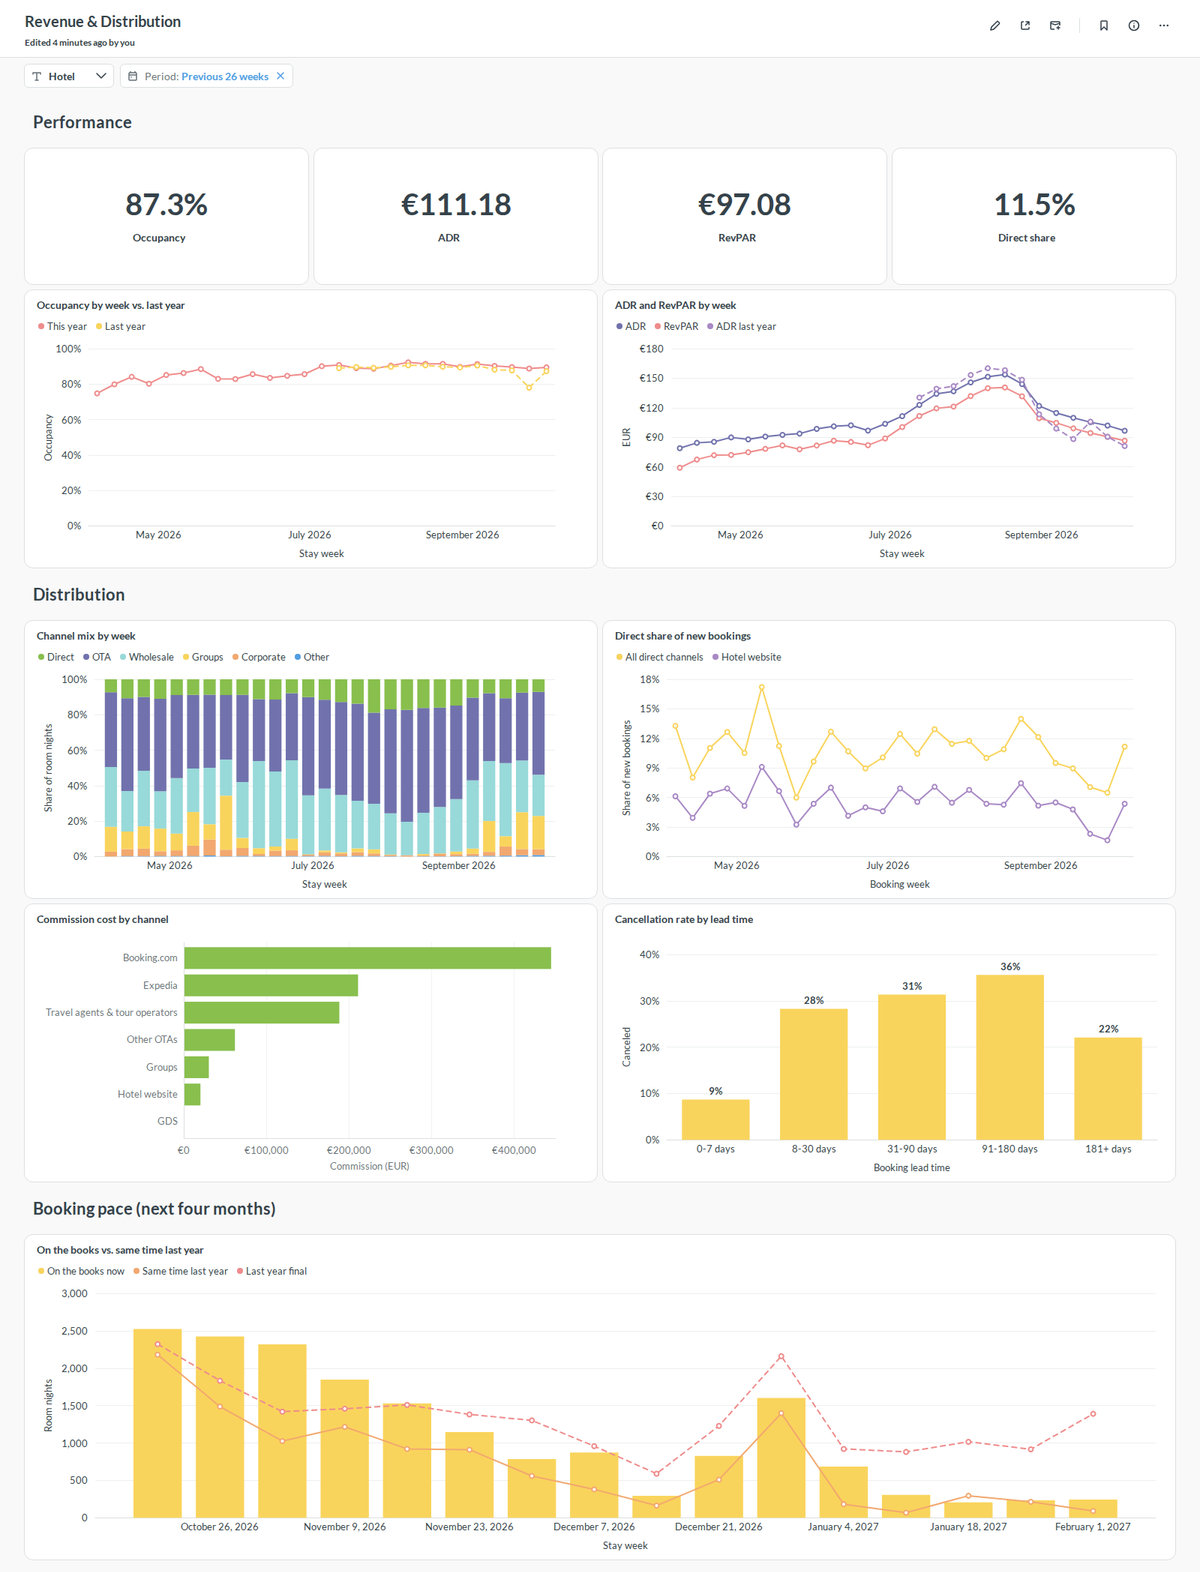
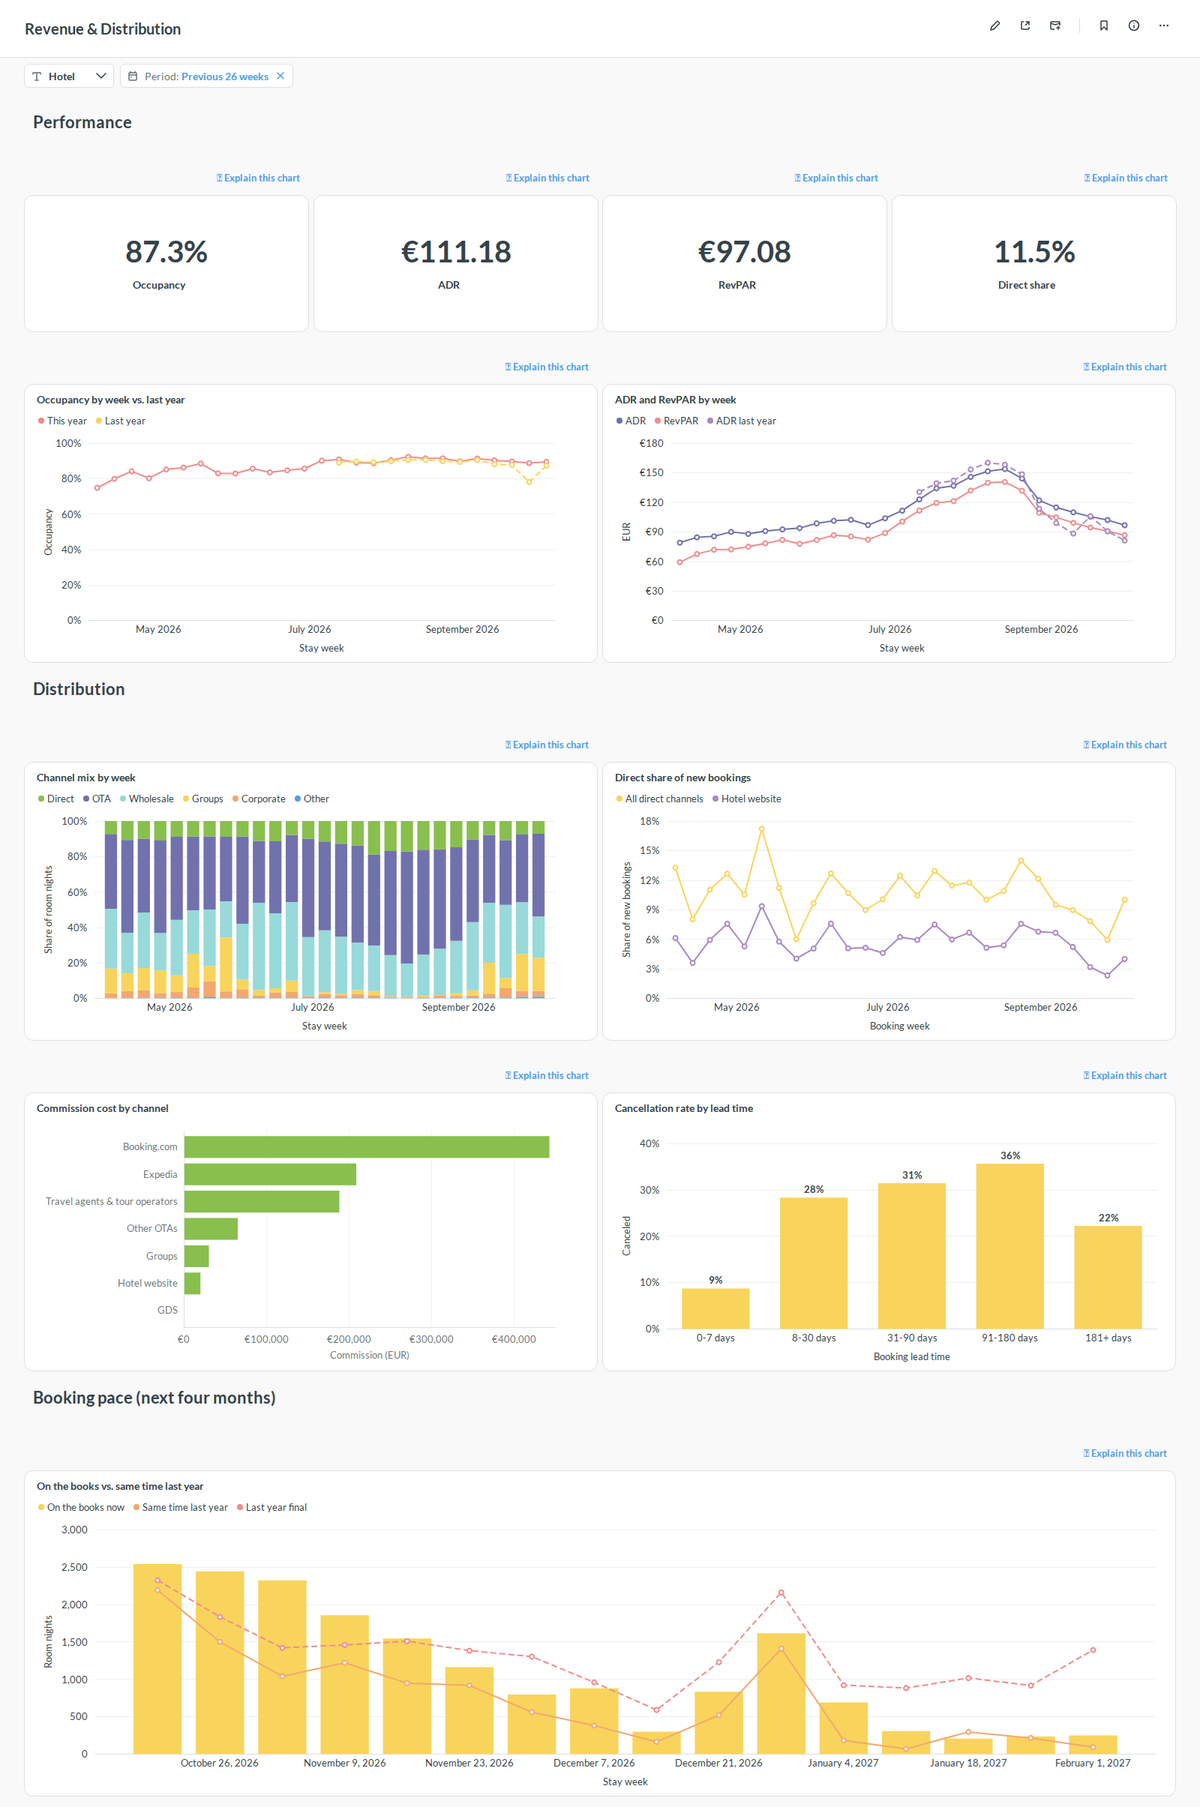
docs: explain feature in the README, evaluation report and screenshots

diff --git a/README.md b/README.md
@@ -42,7 +42,7 @@ lets every chart **explain itself** in plain language.
 | Website tracking | Demo booking site with a consent-first JavaScript tracker, an event collector that validates against a versioned contract and writes a gzip JSONL landing zone, exactly-once file ingestion, clock-skew correction, bot and duplicate filtering, per-visitor incremental sessionisation | ✅ |
 | Web analytics | Closed booking funnel by device and channel, payment errors, first- vs. last-touch attribution, and tracking coverage reconciled against the PMS | ✅ |
 | Operations & reviews | Consumables forecasting and purchase suggestions; review ingestion with topic and sentiment tagging | 🚧 |
-| **Explain this chart** | A button next to every chart: computes facts (deltas, anomalies, drivers), turns them into a narrative with an LLM and verifies every number against the facts | 🚧 |
+| **Explain this chart** | A link above every chart opens an explanation of exactly what the chart shows under the current filters: a deterministic facts engine (changes, trends, anomaly episodes, level shifts, divergence between series, share shifts, gaps to last year and to targets), an LLM narrative with hypotheses and next steps, and an automatic check of every number against the facts. Works without an LLM, too (facts-only mode). | ✅ |
 
 ## Dashboards
 
@@ -53,6 +53,17 @@ lets every chart **explain itself** in plain language.
 ![Website & Booking Funnel dashboard](docs/images/website-dashboard.png)
 
 *Website & Booking Funnel: the same outage seen from the website - mobile payment success collapses and `gateway_timeout` errors spike. Tracking coverage fell below the alert threshold after a cookie-banner redesign (a second injected anomaly), and first- vs. last-touch attribution shows how last-click reporting undervalues metasearch.*
+
+### ✨ Explain this chart
+
+<img src="docs/images/explain-page.png" alt="Explanation of the payment success chart" width="720">
+
+*One click on "Explain this chart" above the payment chart: the facts engine finds the drop and that it only affects mobile; the model turns that into a headline, hypotheses to verify and next steps. All numbers are checked against the chart's data, and the facts used are listed underneath.*
+
+Evaluated against the injected anomalies (`make evaluate`, [report](docs/insight-evaluation.md)):
+the facts engine and the narrative both name the affected series and time window in **4 of 4**
+anomaly charts, **all** narratives pass the number check, and the control charts raise **no**
+false alarms.
 
 ## Architecture
 
@@ -80,7 +91,8 @@ flowchart LR
     end
 
     MB["Metabase<br/>dashboards as code"]
-    EXP["Insight service<br/>explain this chart"]
+    EXP["Insight service<br/>facts engine + number check"]
+    LLM["LLM<br/>OpenAI-compatible API"]
 
     SIM -. simulated activity .-> PMS
     SIM -. simulated visits .-> COL
@@ -95,12 +107,14 @@ flowchart LR
     WING --> AUDIT
     MARTS --> MB
     CORE --> MB
-    MB -- "✨ Explain" --> EXP
+    MB -- "✨ Explain (chart + filters)" --> EXP
+    EXP -- "same query via API" --> MB
+    EXP -- "facts only" --> LLM
 ```
 
 All services run with Docker Compose: PostgreSQL 17 (warehouse, source system and application
-databases with least-privilege roles), Airflow 3.3 (LocalExecutor), Metabase 0.64, and two small
-FastAPI services - the demo hotel website and the event collector.
+databases with least-privilege roles), Airflow 3.3 (LocalExecutor), Metabase 0.64, and three small
+FastAPI services - the demo hotel website, the event collector and the insight service.
 
 ## Data pipeline workflow
 
@@ -132,6 +146,26 @@ FastAPI services - the demo hotel website and the event collector.
    inactivity rule), then the web marts join sessions with PMS reservations for attribution and
    tracking coverage.
 
+**Explaining a chart** happens on demand:
+
+1. **Link** — every chart has a text card above it whose link carries the dashboard's current
+   filter values (Metabase fills them in display form, e.g. "Previous 12 weeks"; the service
+   parses them back to raw filter values).
+2. **Query** — the insight service runs the chart's own query through the Metabase API with a
+   non-admin service account, so the explanation sees exactly what the viewer sees.
+3. **Facts** — a deterministic engine computes the facts, in the chart's own number formats.
+   Anomalies are deviations from the local level measured in units of the series' week-to-week
+   noise; level shifts must explain the data better than a trend; targets and last-year gaps
+   are compared in code, never by the model.
+4. **Narrative** — an OpenAI-compatible model (default: `deepseek-v4-pro`) writes headline,
+   observations with fact references, hypotheses with confidence and next steps, using the chart's
+   intent and a KPI glossary as context. Only aggregated chart data is sent.
+5. **Verify** — every number in the answer must match a fact at the precision it is written
+   with (%, pp, €, thousands, German and Chinese formats); otherwise the model gets one retry
+   with feedback, after which unverified numbers are flagged on the page.
+6. **Cache and learn** — answers are cached per chart, filters, data version, model and
+   language; requests and 👍/👎 feedback are stored in schema `insight`.
+
 | DAG | Schedule | Purpose |
 |---|---|---|
 | `sim_pms_source` | hourly | Advance the simulated PMS to the current time |
@@ -150,6 +184,7 @@ FastAPI services - the demo hotel website and the event collector.
 | `core` | `dim_date`, `dim_hotel`, `dim_room_type`, `dim_channel`, `fct_reservation`, `fct_room_night`, `fct_web_event`, `fct_web_session` | dimensions upserted; facts incremental per changed reservation / visitor |
 | `marts` | `hotel_daily_kpi`, `channel_daily`, `channel_bookings_daily`, `booking_pace`, `web_funnel_daily`, `web_payment_errors_daily`, `web_attribution`, `tracking_coverage_daily` | full rebuild in one transaction |
 | `audit` | schema migrations, load log, loaded-file manifest, data-quality results | append-only |
+| `insight` | explanation cache, requests, feedback | written by the insight service only |
 
 KPI definitions follow hotel industry conventions: **Occupancy** = rooms sold / rooms
 available, **ADR** = room revenue / rooms sold, **RevPAR** = room revenue / rooms available,
@@ -165,12 +200,23 @@ make env   # create .env with freshly generated secrets
 make up    # build and start everything; first start seeds data and provisions dashboards
 ```
 
+To get AI-written explanations, put an OpenAI-compatible endpoint into `.env` (OpenAI,
+DeepSeek, OpenCode, or a local Ollama/vLLM server) and run `make up` again; without a key the
+explanations are generated from the facts alone:
+
+```bash
+LLM_BASE_URL=https://opencode.ai/zen/v1
+LLM_API_KEY=...
+LLM_MODEL=deepseek-v4-pro
+```
+
 | Service | URL | Credentials |
 |---|---|---|
 | Metabase | http://localhost:3001 | `MB_ADMIN_EMAIL` / `MB_ADMIN_PASSWORD` from `.env` |
 | Airflow | http://localhost:8081 | none (local demo mode) |
 | Demo hotel website | http://localhost:8030 | - |
 | Event collector | http://localhost:8010 | - |
+| Insight service | http://localhost:8020 | opened from the dashboards |
 | PostgreSQL | `localhost:5433` | roles and passwords in `.env` |
 
 **Try the whole path yourself:** book a room on the demo website (accept analytics cookies;
@@ -190,6 +236,7 @@ Useful commands:
 make help        # list all targets
 make ps          # service status
 make psql        # psql session on the warehouse
+make evaluate    # score the explanations against the injected anomalies
 make down        # stop (data is kept)
 make clean       # stop and delete all data volumes
 ```
@@ -203,8 +250,9 @@ make clean       # stop and delete all data volumes
 │   ├── simulator/           #   PMS and website-traffic simulators, injected anomalies
 │   ├── tracking/            #   event contract, collector service, tracker.js
 │   ├── website/             #   demo hotel website and booking engine
+│   ├── insight/             #   "Explain this chart": facts engine, narrative, number check
 │   ├── pipelines/           #   extraction and file-loading helpers used by DAGs
-│   ├── metabase/            #   dashboards-as-code provisioning
+│   ├── metabase/            #   API client and dashboards-as-code provisioning
 │   ├── landing.py           #   landing-zone files (swap point for object storage)
 │   ├── migrate.py           #   checksum-verified warehouse migrations
 │   └── quality.py           #   data-quality runner
@@ -212,8 +260,8 @@ make clean       # stop and delete all data volumes
 │   ├── migrations/          # V###__*.sql schema migrations
 │   ├── sql/                 # transformations per layer (staging, core, marts)
 │   └── tests/               # data-quality checks per domain and layer
-├── bi/metabase/             # dashboard and question definitions (YAML + SQL)
-├── docs/                    # tracking plan (generated from the contract), images
+├── bi/metabase/             # dashboards (YAML + SQL), chart intents, KPI glossary
+├── docs/                    # tracking plan (generated), explanation evaluation, images
 ├── infra/                   # Dockerfile and database initialisation
 ├── tests/                   # unit tests and DAG integrity tests
 └── docker-compose.yml
@@ -232,8 +280,9 @@ make clean       # stop and delete all data volumes
 |---|---|
 | `make setup` | `uv sync` and pre-commit hook installation |
 | `make lint` | ruff and sqlfluff |
-| `make test` | unit tests (simulator, migration runner, quality framework) |
+| `make test` | unit tests (simulators, tracking, facts engine, number check, provisioning, ...) |
 | `make test-dags` | DAG integrity tests inside the Airflow image |
+| `make evaluate` | detection rate of the explanations on the injected anomalies (needs the stack) |
 
 ## Data sources and licence notes
 

diff --git a/docs/insight-evaluation.md b/docs/insight-evaluation.md
@@ -1,0 +1,20 @@
+# Explain-this-chart evaluation
+
+Generated by `make evaluate` against the running stack: the insight service explains
+the charts in which the injected anomalies should be visible (default filters), and two
+control charts that the anomalies do not touch (a short-lived signal there during the A1 window counts as a false alarm). Ground truth: `src/hotelpulse/simulator/anomalies.yaml`.
+
+- Model: `deepseek-v4-pro`, anchor date 2026-10-16
+- Fact-level detection: **4/4 (100 %)**
+- Narrative-level detection: **4/4 (100 %)**
+- All numbers verified: **6/6 (100 %)**
+- False alarms on control charts: **0/2 (0 %)**
+
+| Anomaly | Chart | Detected | Numbers verified | Latency | Headline |
+|---|---|---|---|---|---|
+| A1 | Payment success rate by device | facts ✅ · narrative ✅ | ✅ | 7.1 s | Mobile payment success rate has dropped sharply, while desktop and tablet remain stable. |
+| A1 | Failed payments by error code | facts ✅ · narrative ✅ | ✅ | 7.6 s | Gateway_timeout failures spiked in late September, driving total failures up, but have since declined. |
+| A1 | Direct share of new bookings | facts ✅ · narrative ✅ | ✅ | 7.6 s | Direct booking share dipped in late September but is recovering in early October. |
+| A5 | Tracking coverage by week | facts ✅ · narrative ✅ | ✅ | 7.0 s | Tracking coverage has fallen sharply since mid-August and hit 37.1% last week, far below the 60% warning threshold. |
+| control | Occupancy by week vs. last year | no false alarm ✅ | ✅ | 7.8 s | Occupancy is above last year and target, driven by a strong current year since July. |
+| control | ADR and RevPAR by week | no false alarm ✅ | ✅ | 10.8 s | ADR and RevPAR show strong recent uptrends with seasonal peaks, but ADR growth over last year remains modest (+1.8%). |
